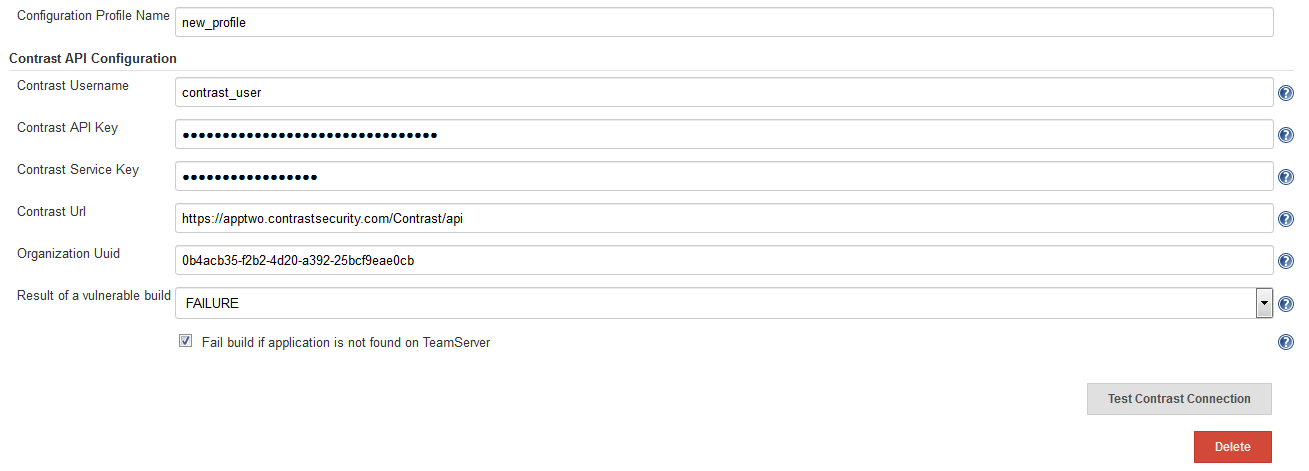
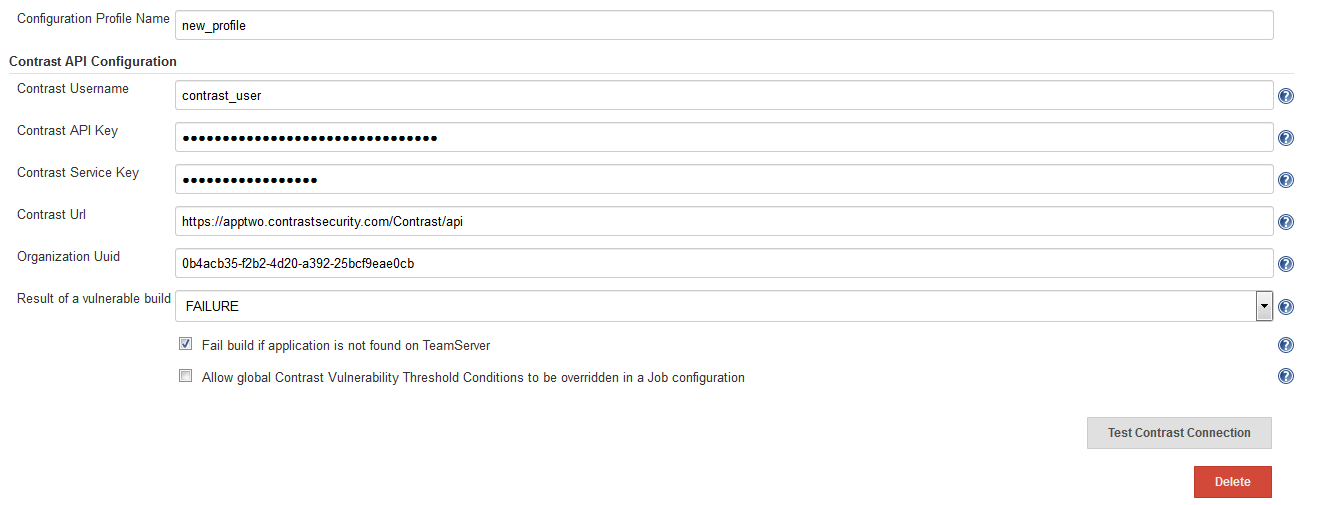
changes related to Jenkins 2.5 release

diff --git a/content/tools/plugins/JenkinsPlugin.md b/content/tools/plugins/JenkinsPlugin.md
@@ -22,34 +22,47 @@ Contrast API settings enable the plugin to connect to Contrast and query for res
 * Enter the [Organization UUID](admin-orgsettings.html#apikey). Go to the **user menu > Organization Settings > API tab** to find the Organization UUID of the configured user in the Contrast UI. (You can also copy it from the URL after logging in to the Contrast UI.) 
 * Choose the **Result of a vulnerable build** from the dropdown menu. 
 * You can also check the box to fail a build if the **application is not found** in the Contrast application. 
+* You can choose to allow global threshold conditions (described below) to be overridden in post-build actions.
+* Click "Apply" to save the TeamServer profile.
 
 #### Test the connection
 
 When you add a Contrast profile, use the **Test TeamServer Connection** button to test your connection and make sure that all the fields are accurate. Contrast prompts you if the test is successful, or gives an error message if it fails.
 
-### Threshold conditions in a post-build action
+### Global Threshold conditions
 
-Once a connection is made, complete the following fields for **Post-Build Actions**. 
+Once a connection is made, complete the following fields for **Contrast Vulnerability Threshold Conditions**. 
 
 * Select a **Profile** from the dropdown.
 * Add a **Count**. The count is exclusive; if you set a count for "5", it fails on six or more vulnerabilities. This field is **required**.
 * Choose a **Severity** from the options in the dropdown menu (Note, Low, Medium, High or Critical). The plugin sets a filter in the API call for all vulnerabilities greater than or equal to this field. This field is recommended to reduce your results, but not required. 
 * Choose a **Vulnerability Type** (rule name) from the dropdown menu. If you specify a single rule for which to filter, the plugin checks for the number of vulnerabilities with the rule type and compares it to the count. This field is recommended to reduce your results, but not required. 
-* Enter the **Application Name**. The Jenkins job name is used by default for this field. This field is **required**.
 * Choose from the list of **Vulnerability Statuses**. Statues aren't required, but can be helpful if you want to exclude vulnerabilities with certain statuses - for example, "Not a Problem" - from the results. If you don't select any statuses, the plugin won't filter vulnerabilities by statuses.
 
-<a href="assets/images/Jenkins_threshold_condition.png" rel="lightbox" title="Threshold condition configuration"><img class="thumbnail" src="assets/images/Jenkins_threshold_condition.png"/></a>
+<a href="assets/images/Jenkins_global_threshold_condition.png" rel="lightbox" title="Threshold condition configuration"><img class="thumbnail" src="assets/images/Jenkins_threshold_condition.png"/></a>
 
 You can add as many rules as you like. The plugin fails on the **first** bad condition and tells you on which condition it failed.
 
 >**Note**: Even if your build succeeds, the plugin fails the overall build if the test finds a bad condition.
+
+### Threshold conditions in a post-build action
+
+Complete the following fields for **Post-Build Actions**.
+
+* Select a **Profile** from the dropdown.
+* If the profile is configured to allow the global threshold conditions to be overridden, you can choose to do so.
+* Enter the **Application Name**. The Jenkins job name is used by default for this field. This field is **required**.
+* If you chose to override the global threshold conditions, fill in the rest of the fields, including **Count**,
+ **Severity**, **Vulnerability Type**, and **Vulnerability Statuses** similarly to the global threshold conditions described above.
+
+<a href="assets/images/Jenkins_threshold_condition.png" rel="lightbox" title="Threshold condition configuration"><img class="thumbnail" src="assets/images/Jenkins_threshold_condition.png"/></a>
 
 ### Threshold conditions in a Pipeline step
 
 When you add a Pipeline step with the name `contrastVerification`, it follows the same principles as the post-build action but in a newer format for Jenkins 2.0 improvements. Pipeline configuration:
 
 ```
-contrastVerification profile: 'Localhost', count: 10, rule: 'xss', severity: 'High'
+contrastVerification profile: 'Localhost', applicationName: 'NodeTestBench', count: 10, rule: 'xss', severity: 'High'
 ```
 
 ## Test for Vulnerabilities
